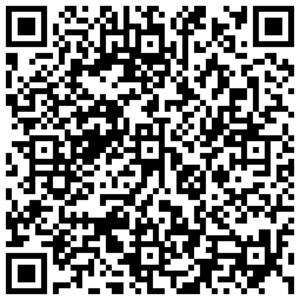
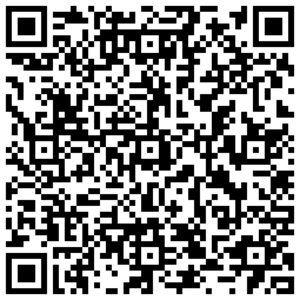
Update free configs - 2025-04-05

diff --git a/README.md b/README.md
@@ -60,120 +60,120 @@
 
 <p align='center'><img src='img/1.png' alt='QR Code' width='300'></p>
 
-<p align='center'><code>ss://Y2hhY2hhMjAtaWV0Zi1wb2x5MTMwNTpjNjljZDA0MS1mZmZlLTQ1MzUtODg5NC03MmY0ZjJhZWVmYjQ=@free.2apzhfa.xyz:31141#0%7C%F0%9F%87%AD%F0%9F%87%B0%E9%A6%99%E6%B8%AF%2001%20%7C%201x%20HK</code></p>
+<p align='center'><code>ss://Y2hhY2hhMjAtaWV0Zi1wb2x5MTMwNTo0NGNjZDQxYy1jZDg2LTRhODgtYTAyMS0wZmRmNjM4YjVkZWM=@free.2weradf.xyz:36141#0%7C%F0%9F%87%AD%F0%9F%87%B0%20%E9%A6%99%E6%B8%AF%2001%20%7C%201x%20HK</code></p>
 
 <p align='center'><img src='img/2.png' alt='QR Code' width='300'></p>
 
-<p align='center'><code>ss://Y2hhY2hhMjAtaWV0Zi1wb2x5MTMwNTpjNjljZDA0MS1mZmZlLTQ1MzUtODg5NC03MmY0ZjJhZWVmYjQ=@free.2apzhfa.xyz:31143#0%7C%F0%9F%87%AD%F0%9F%87%B0%E9%A6%99%E6%B8%AF%2002%20%7C%201x%20HK</code></p>
+<p align='center'><code>ss://Y2hhY2hhMjAtaWV0Zi1wb2x5MTMwNTo0NGNjZDQxYy1jZDg2LTRhODgtYTAyMS0wZmRmNjM4YjVkZWM=@free.2weradf.xyz:36143#0%7C%F0%9F%87%AD%F0%9F%87%B0%20%E9%A6%99%E6%B8%AF%2002%20%7C%201x%20HK</code></p>
 
 <p align='center'><img src='img/3.png' alt='QR Code' width='300'></p>
 
-<p align='center'><code>ss://Y2hhY2hhMjAtaWV0Zi1wb2x5MTMwNTpjNjljZDA0MS1mZmZlLTQ1MzUtODg5NC03MmY0ZjJhZWVmYjQ=@free.2apzhfa.xyz:31145#0%7C%F0%9F%87%AD%F0%9F%87%B0%E9%A6%99%E6%B8%AF%E5%AE%B6%E5%AE%BD%2003%20%7C%201x%20HK</code></p>
+<p align='center'><code>ss://Y2hhY2hhMjAtaWV0Zi1wb2x5MTMwNTo0NGNjZDQxYy1jZDg2LTRhODgtYTAyMS0wZmRmNjM4YjVkZWM=@free.2weradf.xyz:36145#0%7C%F0%9F%87%AD%F0%9F%87%B0%20%E9%A6%99%E6%B8%AF%E4%BD%8F%E5%AE%85IP%2003%20%7C%201x%20HK</code></p>
 
 <p align='center'><img src='img/4.png' alt='QR Code' width='300'></p>
 
-<p align='center'><code>ss://Y2hhY2hhMjAtaWV0Zi1wb2x5MTMwNTpjNjljZDA0MS1mZmZlLTQ1MzUtODg5NC03MmY0ZjJhZWVmYjQ=@free.2apzhfa.xyz:31241#0%7C%F0%9F%87%B9%F0%9F%87%BC%E5%8F%B0%E6%B9%BE%2001%20%7C%201x%20TW</code></p>
+<p align='center'><code>ss://Y2hhY2hhMjAtaWV0Zi1wb2x5MTMwNTo0NGNjZDQxYy1jZDg2LTRhODgtYTAyMS0wZmRmNjM4YjVkZWM=@free.2weradf.xyz:36241#0%7C%F0%9F%87%B9%F0%9F%87%BC%20%E5%8F%B0%E6%B9%BE%2001%20%7C%201x%20TW</code></p>
 
 <p align='center'><img src='img/5.png' alt='QR Code' width='300'></p>
 
-<p align='center'><code>ss://Y2hhY2hhMjAtaWV0Zi1wb2x5MTMwNTpjNjljZDA0MS1mZmZlLTQ1MzUtODg5NC03MmY0ZjJhZWVmYjQ=@free.2apzhfa.xyz:31243#0%7C%F0%9F%87%B9%F0%9F%87%BC%E5%8F%B0%E6%B9%BE%2002%20%7C%201x%20TW</code></p>
+<p align='center'><code>ss://Y2hhY2hhMjAtaWV0Zi1wb2x5MTMwNTo0NGNjZDQxYy1jZDg2LTRhODgtYTAyMS0wZmRmNjM4YjVkZWM=@free.2weradf.xyz:36243#0%7C%F0%9F%87%B9%F0%9F%87%BC%20%E5%8F%B0%E6%B9%BE%2002%20%7C%201x%20TW</code></p>
 
 <p align='center'><img src='img/6.png' alt='QR Code' width='300'></p>
 
-<p align='center'><code>ss://Y2hhY2hhMjAtaWV0Zi1wb2x5MTMwNTpjNjljZDA0MS1mZmZlLTQ1MzUtODg5NC03MmY0ZjJhZWVmYjQ=@free.2apzhfa.xyz:31245#0%7C%F0%9F%87%B9%F0%9F%87%BC%E5%8F%B0%E6%B9%BE%2003%20%7C%201x%20TW</code></p>
+<p align='center'><code>ss://Y2hhY2hhMjAtaWV0Zi1wb2x5MTMwNTo0NGNjZDQxYy1jZDg2LTRhODgtYTAyMS0wZmRmNjM4YjVkZWM=@free.2weradf.xyz:36245#0%7C%F0%9F%87%B9%F0%9F%87%BC%20%E5%8F%B0%E6%B9%BE%2003%20%7C%201x%20TW</code></p>
 
 <p align='center'><img src='img/7.png' alt='QR Code' width='300'></p>
 
-<p align='center'><code>ss://Y2hhY2hhMjAtaWV0Zi1wb2x5MTMwNTpjNjljZDA0MS1mZmZlLTQ1MzUtODg5NC03MmY0ZjJhZWVmYjQ=@free.2apzhfa.xyz:31111#0%7C%F0%9F%87%AF%F0%9F%87%B5%E6%97%A5%E6%9C%AC%2001%20%7C%201x%20JP</code></p>
+<p align='center'><code>ss://Y2hhY2hhMjAtaWV0Zi1wb2x5MTMwNTo0NGNjZDQxYy1jZDg2LTRhODgtYTAyMS0wZmRmNjM4YjVkZWM=@free.2weradf.xyz:36111#0%7C%F0%9F%87%AF%F0%9F%87%B5%20%E6%97%A5%E6%9C%AC%2001%20%7C%201x%20JP</code></p>
 
 <p align='center'><img src='img/8.png' alt='QR Code' width='300'></p>
 
-<p align='center'><code>ss://Y2hhY2hhMjAtaWV0Zi1wb2x5MTMwNTpjNjljZDA0MS1mZmZlLTQ1MzUtODg5NC03MmY0ZjJhZWVmYjQ=@free.2apzhfa.xyz:31113#0%7C%F0%9F%87%AF%F0%9F%87%B5%E6%97%A5%E6%9C%AC%2002%20%7C%201x%20JP</code></p>
+<p align='center'><code>ss://Y2hhY2hhMjAtaWV0Zi1wb2x5MTMwNTo0NGNjZDQxYy1jZDg2LTRhODgtYTAyMS0wZmRmNjM4YjVkZWM=@free.2weradf.xyz:36113#0%7C%F0%9F%87%AF%F0%9F%87%B5%20%E6%97%A5%E6%9C%AC%2002%20%7C%201x%20JP</code></p>
 
 <p align='center'><img src='img/9.png' alt='QR Code' width='300'></p>
 
-<p align='center'><code>ss://Y2hhY2hhMjAtaWV0Zi1wb2x5MTMwNTpjNjljZDA0MS1mZmZlLTQ1MzUtODg5NC03MmY0ZjJhZWVmYjQ=@free.2apzhfa.xyz:31115#0%7C%F0%9F%87%AF%F0%9F%87%B5%E6%97%A5%E6%9C%AC%2003%20%7C%201x%20JP</code></p>
+<p align='center'><code>ss://Y2hhY2hhMjAtaWV0Zi1wb2x5MTMwNTo0NGNjZDQxYy1jZDg2LTRhODgtYTAyMS0wZmRmNjM4YjVkZWM=@free.2weradf.xyz:36115#0%7C%F0%9F%87%AF%F0%9F%87%B5%20%E6%97%A5%E6%9C%AC%2003%20%7C%201x%20JP</code></p>
 
 <p align='center'><img src='img/10.png' alt='QR Code' width='300'></p>
 
-<p align='center'><code>ss://Y2hhY2hhMjAtaWV0Zi1wb2x5MTMwNTpjNjljZDA0MS1mZmZlLTQ1MzUtODg5NC03MmY0ZjJhZWVmYjQ=@free.2apzhfa.xyz:31171#0%7C%F0%9F%87%B8%F0%9F%87%AC%E6%96%B0%E5%8A%A0%E5%9D%A1%2001%20%7C%201x%20SG</code></p>
+<p align='center'><code>ss://Y2hhY2hhMjAtaWV0Zi1wb2x5MTMwNTo0NGNjZDQxYy1jZDg2LTRhODgtYTAyMS0wZmRmNjM4YjVkZWM=@free.2weradf.xyz:36171#0%7C%F0%9F%87%B8%F0%9F%87%AC%20%E6%96%B0%E5%8A%A0%E5%9D%A1%2001%20%7C%201x%20SG</code></p>
 
 <p align='center'><img src='img/11.png' alt='QR Code' width='300'></p>
 
-<p align='center'><code>ss://Y2hhY2hhMjAtaWV0Zi1wb2x5MTMwNTpjNjljZDA0MS1mZmZlLTQ1MzUtODg5NC03MmY0ZjJhZWVmYjQ=@free.2apzhfa.xyz:31173#0%7C%F0%9F%87%B8%F0%9F%87%AC%E6%96%B0%E5%8A%A0%E5%9D%A1%2002%20%7C%201x%20SG</code></p>
+<p align='center'><code>ss://Y2hhY2hhMjAtaWV0Zi1wb2x5MTMwNTo0NGNjZDQxYy1jZDg2LTRhODgtYTAyMS0wZmRmNjM4YjVkZWM=@free.2weradf.xyz:36173#0%7C%F0%9F%87%B8%F0%9F%87%AC%20%E6%96%B0%E5%8A%A0%E5%9D%A1%2002%20%7C%201x%20SG</code></p>
 
 <p align='center'><img src='img/12.png' alt='QR Code' width='300'></p>
 
-<p align='center'><code>ss://Y2hhY2hhMjAtaWV0Zi1wb2x5MTMwNTpjNjljZDA0MS1mZmZlLTQ1MzUtODg5NC03MmY0ZjJhZWVmYjQ=@free.2apzhfa.xyz:31175#0%7C%F0%9F%87%B8%F0%9F%87%AC%E6%96%B0%E5%8A%A0%E5%9D%A1%2003%20%7C%201x%20SG</code></p>
+<p align='center'><code>ss://Y2hhY2hhMjAtaWV0Zi1wb2x5MTMwNTo0NGNjZDQxYy1jZDg2LTRhODgtYTAyMS0wZmRmNjM4YjVkZWM=@free.2weradf.xyz:36175#0%7C%F0%9F%87%B8%F0%9F%87%AC%20%E6%96%B0%E5%8A%A0%E5%9D%A1%2003%20%7C%201x%20SG</code></p>
 
 <p align='center'><img src='img/13.png' alt='QR Code' width='300'></p>
 
-<p align='center'><code>ss://Y2hhY2hhMjAtaWV0Zi1wb2x5MTMwNTpjNjljZDA0MS1mZmZlLTQ1MzUtODg5NC03MmY0ZjJhZWVmYjQ=@free.2apzhfa.xyz:31311#0%7C%F0%9F%87%B0%F0%9F%87%B7%E9%9F%A9%E5%9B%BD%2001%20%7C%201x%20KR</code></p>
+<p align='center'><code>ss://Y2hhY2hhMjAtaWV0Zi1wb2x5MTMwNTo0NGNjZDQxYy1jZDg2LTRhODgtYTAyMS0wZmRmNjM4YjVkZWM=@free.2weradf.xyz:36311#0%7C%F0%9F%87%B0%F0%9F%87%B7%20%E9%9F%A9%E5%9B%BD%2001%20%7C%201x%20KR</code></p>
 
 <p align='center'><img src='img/14.png' alt='QR Code' width='300'></p>
 
-<p align='center'><code>ss://Y2hhY2hhMjAtaWV0Zi1wb2x5MTMwNTpjNjljZDA0MS1mZmZlLTQ1MzUtODg5NC03MmY0ZjJhZWVmYjQ=@free.2apzhfa.xyz:31313#0%7C%F0%9F%87%B0%F0%9F%87%B7%E9%9F%A9%E5%9B%BD%2002%20%7C%201x%20KR</code></p>
+<p align='center'><code>ss://Y2hhY2hhMjAtaWV0Zi1wb2x5MTMwNTo0NGNjZDQxYy1jZDg2LTRhODgtYTAyMS0wZmRmNjM4YjVkZWM=@free.2weradf.xyz:36313#0%7C%F0%9F%87%B0%F0%9F%87%B7%20%E9%9F%A9%E5%9B%BD%2002%20%7C%201x%20KR</code></p>
 
 <p align='center'><img src='img/15.png' alt='QR Code' width='300'></p>
 
-<p align='center'><code>ss://Y2hhY2hhMjAtaWV0Zi1wb2x5MTMwNTpjNjljZDA0MS1mZmZlLTQ1MzUtODg5NC03MmY0ZjJhZWVmYjQ=@free.2apzhfa.xyz:31341#0%7C%F0%9F%87%B5%F0%9F%87%AD%E8%8F%B2%E5%BE%8B%E5%AE%BE%2001%20%7C%201x%20PH</code></p>
+<p align='center'><code>ss://Y2hhY2hhMjAtaWV0Zi1wb2x5MTMwNTo0NGNjZDQxYy1jZDg2LTRhODgtYTAyMS0wZmRmNjM4YjVkZWM=@free.2weradf.xyz:36341#0%7C%F0%9F%87%B5%F0%9F%87%AD%20%E8%8F%B2%E5%BE%8B%E5%AE%BE%2001%20%7C%201x%20PH</code></p>
 
 <p align='center'><img src='img/16.png' alt='QR Code' width='300'></p>
 
-<p align='center'><code>ss://Y2hhY2hhMjAtaWV0Zi1wb2x5MTMwNTpjNjljZDA0MS1mZmZlLTQ1MzUtODg5NC03MmY0ZjJhZWVmYjQ=@free.2apzhfa.xyz:31211#0%7C%F0%9F%87%BA%F0%9F%87%B8%E7%BE%8E%E5%9B%BD%2001%20%7C%201x%20US%20Los%20Angeles</code></p>
+<p align='center'><code>ss://Y2hhY2hhMjAtaWV0Zi1wb2x5MTMwNTo0NGNjZDQxYy1jZDg2LTRhODgtYTAyMS0wZmRmNjM4YjVkZWM=@free.2weradf.xyz:36211#0%7C%F0%9F%87%BA%F0%9F%87%B8%20%E7%BE%8E%E5%9B%BD%2001%20%7C%201x%20US%20Los%20Angeles</code></p>
 
 <p align='center'><img src='img/17.png' alt='QR Code' width='300'></p>
 
-<p align='center'><code>ss://Y2hhY2hhMjAtaWV0Zi1wb2x5MTMwNTpjNjljZDA0MS1mZmZlLTQ1MzUtODg5NC03MmY0ZjJhZWVmYjQ=@free.2apzhfa.xyz:31213#0%7C%F0%9F%87%BA%F0%9F%87%B8%E7%BE%8E%E5%9B%BD%E5%AE%B6%E5%AE%BD%2002%20%7C%201x%20US%20Los%20Angeles</code></p>
+<p align='center'><code>ss://Y2hhY2hhMjAtaWV0Zi1wb2x5MTMwNTo0NGNjZDQxYy1jZDg2LTRhODgtYTAyMS0wZmRmNjM4YjVkZWM=@free.2weradf.xyz:36213#0%7C%F0%9F%87%BA%F0%9F%87%B8%20%E7%BE%8E%E5%9B%BD%E4%BD%8F%E5%AE%85IP%2002%20%7C%201x%20US%20Los%20Angel...</code></p>
 
 <p align='center'><img src='img/18.png' alt='QR Code' width='300'></p>
 
-<p align='center'><code>ss://Y2hhY2hhMjAtaWV0Zi1wb2x5MTMwNTpjNjljZDA0MS1mZmZlLTQ1MzUtODg5NC03MmY0ZjJhZWVmYjQ=@free.2apzhfa.xyz:31215#0%7C%F0%9F%87%BA%F0%9F%87%B8%E7%BE%8E%E5%9B%BD%2003%20%7C%201x%20US%20Washington</code></p>
+<p align='center'><code>ss://Y2hhY2hhMjAtaWV0Zi1wb2x5MTMwNTo0NGNjZDQxYy1jZDg2LTRhODgtYTAyMS0wZmRmNjM4YjVkZWM=@free.2weradf.xyz:36215#0%7C%F0%9F%87%BA%F0%9F%87%B8%20%E7%BE%8E%E5%9B%BD%2003%20%7C%201x%20US%20Washington</code></p>
 
 <p align='center'><img src='img/19.png' alt='QR Code' width='300'></p>
 
-<p align='center'><code>ss://Y2hhY2hhMjAtaWV0Zi1wb2x5MTMwNTpjNjljZDA0MS1mZmZlLTQ1MzUtODg5NC03MmY0ZjJhZWVmYjQ=@free.2apzhfa.xyz:31271#0%7C%F0%9F%87%AC%F0%9F%87%A7%E8%8B%B1%E5%9B%BD%E5%AE%B6%E5%AE%BD%2001%20%7C%201x%20UK</code></p>
+<p align='center'><code>ss://Y2hhY2hhMjAtaWV0Zi1wb2x5MTMwNTo0NGNjZDQxYy1jZDg2LTRhODgtYTAyMS0wZmRmNjM4YjVkZWM=@free.2weradf.xyz:36271#0%7C%F0%9F%87%AC%F0%9F%87%A7%20%E8%8B%B1%E5%9B%BD%E4%BD%8F%E5%AE%85IP%2001%20%7C%201x%20UK</code></p>
 
 <p align='center'><img src='img/20.png' alt='QR Code' width='300'></p>
 
-<p align='center'><code>ss://Y2hhY2hhMjAtaWV0Zi1wb2x5MTMwNTpjNjljZDA0MS1mZmZlLTQ1MzUtODg5NC03MmY0ZjJhZWVmYjQ=@free.2apzhfa.xyz:31741#0%7C%F0%9F%87%B9%F0%9F%87%AD%E6%B3%B0%E5%9B%BD01%20%20%7C%201x%20TH</code></p>
+<p align='center'><code>ss://Y2hhY2hhMjAtaWV0Zi1wb2x5MTMwNTo0NGNjZDQxYy1jZDg2LTRhODgtYTAyMS0wZmRmNjM4YjVkZWM=@free.2weradf.xyz:36721#0%7C%F0%9F%87%B2%F0%9F%87%BE%E9%A9%AC%E6%9D%A5%E8%A5%BF%E4%BA%9A%2001%20%7C%201x%20MY</code></p>
 
 <p align='center'><img src='img/21.png' alt='QR Code' width='300'></p>
 
-<p align='center'><code>ss://Y2hhY2hhMjAtaWV0Zi1wb2x5MTMwNTpjNjljZDA0MS1mZmZlLTQ1MzUtODg5NC03MmY0ZjJhZWVmYjQ=@free.2apzhfa.xyz:31721#0%7C%F0%9F%87%B2%F0%9F%87%BE%E9%A9%AC%E6%9D%A5%E8%A5%BF%E4%BA%9A01%20%7C%201x%20MY</code></p>
+<p align='center'><code>ss://Y2hhY2hhMjAtaWV0Zi1wb2x5MTMwNTo0NGNjZDQxYy1jZDg2LTRhODgtYTAyMS0wZmRmNjM4YjVkZWM=@free.2weradf.xyz:36722#0%7C%F0%9F%87%B2%F0%9F%87%BE%E9%A9%AC%E6%9D%A5%E8%A5%BF%E4%BA%9A%2002%20%7C%201x%20MY</code></p>
 
 <p align='center'><img src='img/22.png' alt='QR Code' width='300'></p>
 
-<p align='center'><code>ss://Y2hhY2hhMjAtaWV0Zi1wb2x5MTMwNTpjNjljZDA0MS1mZmZlLTQ1MzUtODg5NC03MmY0ZjJhZWVmYjQ=@free.2apzhfa.xyz:31722#0%7C%F0%9F%87%B2%F0%9F%87%BE%E9%A9%AC%E6%9D%A5%E8%A5%BF%E4%BA%9A02%20%7C%201x%20MY</code></p>
+<p align='center'><code>ss://Y2hhY2hhMjAtaWV0Zi1wb2x5MTMwNTo0NGNjZDQxYy1jZDg2LTRhODgtYTAyMS0wZmRmNjM4YjVkZWM=@free.2weradf.xyz:36741#0%7C%F0%9F%87%AE%F0%9F%87%B3%E8%A5%BF%E7%8F%AD%E7%89%99%2001%20%7C%201x%20ES</code></p>
 
 <p align='center'><img src='img/23.png' alt='QR Code' width='300'></p>
 
-<p align='center'><code>ss://Y2hhY2hhMjAtaWV0Zi1wb2x5MTMwNTpjNjljZDA0MS1mZmZlLTQ1MzUtODg5NC03MmY0ZjJhZWVmYjQ=@free.2apzhfa.xyz:31371#0%7C%F0%9F%87%AE%F0%9F%87%B3%E5%8D%B0%E5%BA%A6%2001%20%7C%201x%20IN</code></p>
+<p align='center'><code>ss://Y2hhY2hhMjAtaWV0Zi1wb2x5MTMwNTo0NGNjZDQxYy1jZDg2LTRhODgtYTAyMS0wZmRmNjM4YjVkZWM=@free.2weradf.xyz:36731#0%7C%F0%9F%87%B9%F0%9F%87%AD%E6%B3%B0%E5%9B%BD%2001%20%7C%201x%20TH</code></p>
 
 <p align='center'><img src='img/24.png' alt='QR Code' width='300'></p>
 
-<p align='center'><code>ss://Y2hhY2hhMjAtaWV0Zi1wb2x5MTMwNTpjNjljZDA0MS1mZmZlLTQ1MzUtODg5NC03MmY0ZjJhZWVmYjQ=@free.2apzhfa.xyz:31411#0%7C%F0%9F%87%A6%F0%9F%87%BA%E6%BE%B3%E5%A4%A7%E5%88%A9%E4%BA%9A%2001%20%7C%201x%20AU</code></p>
+<p align='center'><code>ss://Y2hhY2hhMjAtaWV0Zi1wb2x5MTMwNTo0NGNjZDQxYy1jZDg2LTRhODgtYTAyMS0wZmRmNjM4YjVkZWM=@free.2weradf.xyz:36371#0%7C%F0%9F%87%AE%F0%9F%87%B3%20%E5%8D%B0%E5%BA%A6%2001%20%7C%201x%20IN</code></p>
 
 <p align='center'><img src='img/25.png' alt='QR Code' width='300'></p>
 
-<p align='center'><code>ss://Y2hhY2hhMjAtaWV0Zi1wb2x5MTMwNTpjNjljZDA0MS1mZmZlLTQ1MzUtODg5NC03MmY0ZjJhZWVmYjQ=@free.2apzhfa.xyz:31441#0%7C%F0%9F%87%A8%F0%9F%87%A6%E5%8A%A0%E6%8B%BF%E5%A4%A7%2001%20%7C%201x%20CA</code></p>
+<p align='center'><code>ss://Y2hhY2hhMjAtaWV0Zi1wb2x5MTMwNTo0NGNjZDQxYy1jZDg2LTRhODgtYTAyMS0wZmRmNjM4YjVkZWM=@free.2weradf.xyz:36411#0%7C%F0%9F%87%A6%F0%9F%87%BA%20%E6%BE%B3%E5%A4%A7%E5%88%A9%E4%BA%9A%2001%20%7C%201x%20AU</code></p>
 
 <p align='center'><img src='img/26.png' alt='QR Code' width='300'></p>
 
-<p align='center'><code>ss://Y2hhY2hhMjAtaWV0Zi1wb2x5MTMwNTpjNjljZDA0MS1mZmZlLTQ1MzUtODg5NC03MmY0ZjJhZWVmYjQ=@free.2apzhfa.xyz:31471#0%7C%F0%9F%87%A9%F0%9F%87%AA%E5%BE%B7%E5%9B%BD%2001%20%7C%201x%20DE</code></p>
+<p align='center'><code>ss://Y2hhY2hhMjAtaWV0Zi1wb2x5MTMwNTo0NGNjZDQxYy1jZDg2LTRhODgtYTAyMS0wZmRmNjM4YjVkZWM=@free.2weradf.xyz:36441#0%7C%F0%9F%87%A8%F0%9F%87%A6%20%E5%8A%A0%E6%8B%BF%E5%A4%A7%2001%20%7C%201x%20CA</code></p>
 
 <p align='center'><img src='img/27.png' alt='QR Code' width='300'></p>
 
-<p align='center'><code>ss://Y2hhY2hhMjAtaWV0Zi1wb2x5MTMwNTpjNjljZDA0MS1mZmZlLTQ1MzUtODg5NC03MmY0ZjJhZWVmYjQ=@free.2apzhfa.xyz:31511#0%7C%F0%9F%87%B7%F0%9F%87%BA%E4%BF%84%E7%BD%97%E6%96%AF%2001%20%7C%201x%20RU</code></p>
+<p align='center'><code>ss://Y2hhY2hhMjAtaWV0Zi1wb2x5MTMwNTo0NGNjZDQxYy1jZDg2LTRhODgtYTAyMS0wZmRmNjM4YjVkZWM=@free.2weradf.xyz:36471#0%7C%F0%9F%87%A9%F0%9F%87%AA%20%E5%BE%B7%E5%9B%BD%2001%20%7C%201x%20DE</code></p>
 
 <p align='center'><img src='img/28.png' alt='QR Code' width='300'></p>
 
-<p align='center'><code>ss://Y2hhY2hhMjAtaWV0Zi1wb2x5MTMwNTpjNjljZDA0MS1mZmZlLTQ1MzUtODg5NC03MmY0ZjJhZWVmYjQ=@free.2apzhfa.xyz:31571#0%7C%F0%9F%87%B9%F0%9F%87%B7%E5%9C%9F%E8%80%B3%E5%85%B6%2001%20%7C%201x%20TR</code></p>
+<p align='center'><code>ss://Y2hhY2hhMjAtaWV0Zi1wb2x5MTMwNTo0NGNjZDQxYy1jZDg2LTRhODgtYTAyMS0wZmRmNjM4YjVkZWM=@free.2weradf.xyz:36511#0%7C%F0%9F%87%B7%F0%9F%87%BA%20%E4%BF%84%E7%BD%97%E6%96%AF%2001%20%7C%201x%20RU</code></p>
 
 <p align='center'><img src='img/29.png' alt='QR Code' width='300'></p>
 
-<p align='center'><code>ss://Y2hhY2hhMjAtaWV0Zi1wb2x5MTMwNTpjNjljZDA0MS1mZmZlLTQ1MzUtODg5NC03MmY0ZjJhZWVmYjQ=@free.2apzhfa.xyz:31611#0%7C%F0%9F%87%BA%F0%9F%87%A6%E4%B9%8C%E5%85%8B%E5%85%B0%2001%20%7C%201x%20UA</code></p>
+<p align='center'><code>ss://Y2hhY2hhMjAtaWV0Zi1wb2x5MTMwNTo0NGNjZDQxYy1jZDg2LTRhODgtYTAyMS0wZmRmNjM4YjVkZWM=@free.2weradf.xyz:36571#0%7C%F0%9F%87%B9%F0%9F%87%B7%20%E5%9C%9F%E8%80%B3%E5%85%B6%2001%20%7C%201x%20TR</code></p>
 
 <p align='center'><img src='img/30.png' alt='QR Code' width='300'></p>
 
-<p align='center'><code>ss://Y2hhY2hhMjAtaWV0Zi1wb2x5MTMwNTpjNjljZDA0MS1mZmZlLTQ1MzUtODg5NC03MmY0ZjJhZWVmYjQ=@free.2apzhfa.xyz:31641#0%7C%F0%9F%87%BB%F0%9F%87%B3%E8%B6%8A%E5%8D%97%2001%20%7C%201x%20VN</code></p>
+<p align='center'><code>ss://Y2hhY2hhMjAtaWV0Zi1wb2x5MTMwNTo0NGNjZDQxYy1jZDg2LTRhODgtYTAyMS0wZmRmNjM4YjVkZWM=@free.2weradf.xyz:36611#0%7C%F0%9F%87%BA%F0%9F%87%A6%20%E4%B9%8C%E5%85%8B%E5%85%B0%2001%20%7C%201x%20UA</code></p>
